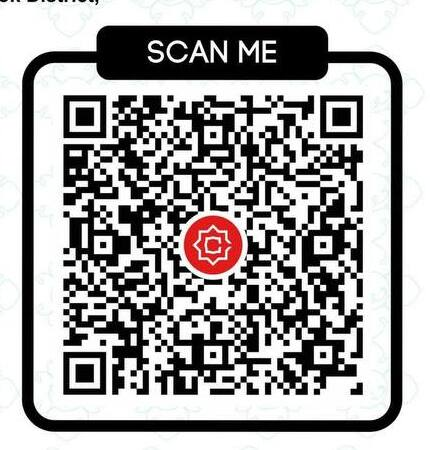
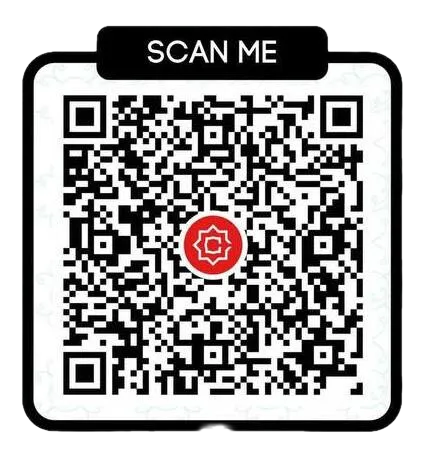
feat: convert images to WebP and add ResponsiveImage component
- Convert KHQR donation QR (178K PNG → 32K WebP, 82% smaller)
- Convert team group photo to WebP (267K JPEG → 139K WebP)
- Add CamEd logo WebP variant
- Add ResponsiveImage component (<picture> with WebP source + fallback)
- Update Team.jsx and DonatePage.jsx to use ResponsiveImage with WebP
- Remove original JPEG/JPG files replaced by WebP
- Add CLAUDE.md improvements: fix base path, add missing scripts, coding conventions, CI/CD docs

diff --git a/src/components/DonationHonorRoll.jsx b/src/components/DonationHonorRoll.jsx
@@ -1,4 +1,4 @@
-import { Banknote, Trophy, Users } from 'lucide-react'
+import { Banknote, Star, Trophy, Users } from 'lucide-react'
 import { buildLeaderboard, formatDonationAmount, formatRelativeTime } from '../lib/donations'
 
 export function DonationSummary({ summary, labels }) {
@@ -41,6 +41,16 @@ export function RecentDonationList({ donations, labels, language, limit = 5 }) {
               </p>
               <p className="font-semibold text-2xl text-orange mt-1 mb-0.5">{formatDonationAmount(donation.amount)}</p>
               <p className="text-xs text-muted mt-0.5">{formatRelativeTime(donation.paidAt, language)}</p>
+              <div className="mt-2 flex flex-wrap items-center gap-2 text-[11px] text-muted">
+                <span className="rounded-full bg-sand px-2.5 py-1">{donation.method}</span>
+                {donation.bank && <span className="rounded-full bg-lime-soft px-2.5 py-1">{donation.bank}</span>}
+                {donation.amount >= 10 && (
+                  <span className="flex items-center gap-1 rounded-full bg-orange/20 px-2.5 py-1 text-orange/80">
+                    <Star size={10} fill="currentColor" className="text-orange/80" />
+                    <span className="uppercase tracking-wide text-[0.6em]">Supporter</span>
+                  </span>
+                )}
+              </div>
             </div>
           </div>
         </div>

diff --git a/src/pages/DonatePage.jsx b/src/pages/DonatePage.jsx
@@ -1,6 +1,7 @@
 import { ArrowLeft, Mail } from 'lucide-react';
 import { useTranslation } from '../hooks/useTranslation';
 import Navbar from '../components/Navbar';
+import ResponsiveImage from '../components/ResponsiveImage';
 
 const telegramIcon = (
   <svg viewBox="0 0 24 24" fill="currentColor" className="w-8 h-8">
@@ -86,9 +87,11 @@ export default function DonatePage() {
             <p className="text-muted text-sm md:text-base leading-relaxed">{d.khqr.description}</p>
           </div>
           <div className="rounded-2xl bg-cream p-4 border border-navy/8">
-            <img
-              src={`${import.meta.env.BASE_URL}img/khqr-donation.png`}
+            <ResponsiveImage
+              webpSrc={`${import.meta.env.BASE_URL}img/khqr-donation.webp`}
+              fallbackSrc={`${import.meta.env.BASE_URL}img/khqr-donation.png`}
               alt={d.khqr.imageAlt}
+              loading="eager"
               className="w-full rounded-xl bg-white"
             />
           </div>

diff --git a/src/components/Team.jsx b/src/components/Team.jsx
@@ -1,5 +1,6 @@
 import { useTranslation } from '../hooks/useTranslation';
 import ScrollReveal from './ScrollReveal';
+import ResponsiveImage from './ResponsiveImage';
 
 export default function Team() {
   const t = useTranslation();
@@ -19,8 +20,9 @@ export default function Team() {
 
         <ScrollReveal>
           <div className="rounded-2xl overflow-hidden shadow-xl shadow-navy/10 border border-navy/6 max-w-3xl mx-auto">
-            <img
-              src={`${import.meta.env.BASE_URL}img/All_group_Members_image.JPEG`}
+            <ResponsiveImage
+              webpSrc={`${import.meta.env.BASE_URL}img/All_group_Members_image.webp`}
+              fallbackSrc={`${import.meta.env.BASE_URL}img/All_group_Members_image.JPEG`}
               alt={tm.photoCaption}
               className="w-full h-auto object-cover"
             />

diff --git a/src/components/ResponsiveImage.jsx b/src/components/ResponsiveImage.jsx
@@ -1,0 +1,31 @@
+import React from 'react';
+
+/**
+ * ResponsiveImage - A component that provides WebP images with PNG/JPG/GIF fallbacks
+ * for maximum browser support and performance.
+ *
+ * This component uses the picture element with source tags for WebP and img for fallback,
+ * ensuring modern browsers get the smaller, faster-loading WebP format while all browsers
+ * maintain full compatibility.
+ */
+export default function ResponsiveImage({
+  webpSrc,
+  fallbackSrc,
+  alt,
+  loading = 'lazy',
+  className = '',
+  ...props
+}) {
+  return (
+    <picture>
+      <source srcSet={webpSrc} type="image/webp" />
+      <img
+        src={fallbackSrc}
+        alt={alt}
+        loading={loading}
+        className={className}
+        {...props}
+      />
+    </picture>
+  );
+}

diff --git a/CLAUDE.md b/CLAUDE.md
@@ -18,7 +18,7 @@ There are no tests or linting configured in this project.
 
 **Stack:** React 19 + Vite 8 + Tailwind CSS v4 (via `@tailwindcss/vite` plugin) + `lucide-react` icons.
 
-**Output:** `npm run build` produces a fully static `/dist` folder deployed to GitHub Pages under the `/scc-charity/` base path (set in `vite.config.js`). All internal asset paths must respect this base — use `import.meta.env.BASE_URL` for dynamic references.
+**Output:** `npm run build` produces a fully static `/dist` folder deployed to GitHub Pages and cPanel. `vite.config.js` sets `base: '/'`. All internal asset paths must use `import.meta.env.BASE_URL` for dynamic references.
 
 ### Environment & Secrets
 
@@ -70,25 +70,42 @@ The `hero` section uses `rotatingPhrases` (an array) instead of a single string 
 | `useTranslation()` | `src/hooks/useTranslation.js` | Returns `content[language]` from context |
 | `useInView(threshold, { once })` | `src/hooks/useInView.js` | `IntersectionObserver` wrapper. `once: true` (default) fires once and disconnects — used by `ScrollReveal`. `once: false` re-fires on every enter/exit — used for repeating animations. |
 | `useCountUp(target, { duration, started })` | `src/hooks/useCountUp.js` | Animates a number from 0 to `target` using ease-out cubic when `started` flips to `true`. Resets to 0 when `started` becomes `false`. |
-| `useDonationHistory()` | `src/hooks/useDonationHistory.js` | Loads historical payment data from `payment-data.txt` and parses it into structured donor records |
-| `useTelegramPoller()` | `src/hooks/useTelegramPoller.js` | Polls Telegram Bot API every 5-10 seconds for new donation notifications in the group chat |
+| `useDonations({ poll })` | `src/hooks/useDonations.js` | Fetches `public/data/donations.json` on mount and polls every `DONATION_POLL_MS` (2 s). Skips fetch when tab is hidden. Returns `{ donations, summary, loading, error, checkedAt, refresh }`. |
 
 ### Donation System
 
-**Real-time Donation Feed:**
-- `DonorsPage.jsx` — dedicated leaderboard page showing all donors
-- `LiveDonationsFeed.jsx` — compact feed component embedded in homepage
-- `DonorCard.jsx` — formal display: "Name Donated $X.XX Y minutes ago"
-- Payment notifications from Telegram group are parsed and displayed
-- Name disambiguation: if names match, suffix with last 3 digits of bank account (e.g., "LENG Lyheang (*267)")
+**Architecture:**
+- `src/lib/donations.js` — all data utilities: `normalizeDonationPayload`, `buildLeaderboard`, `formatDonationAmount`, `formatRelativeTime`, `donationFingerprint`, `fetchDonationPayload`
+- `src/data/donations.generated.json` — baked-in snapshot imported at build time (seed data so page has content without a network request)
+- `public/data/donations.json` — polled at runtime; updated by CI/sync scripts
+- `public/data/donations-state.json` — last-known Telegram offset used by sync scripts
 
-**Payment Parsing:**
-- ABA PayWay notifications parsed from Telegram messages
-- Regex extracts: `NAME (*XXX)`, `$AMOUNT`, `Trx.ID`, time
-- Historical data stored in `payment-data.txt` (load on page load)
-- New donations detected via Telegram group message polling
+**Components:**
+- `LiveDonations.jsx` — homepage section; uses `useDonations()` and renders `DonationSummary` + `RecentDonationList` + `LeaderboardList`
+- `DonationHonorRoll.jsx` — exports three sub-components: `DonationSummary` (stats grid), `RecentDonationList` (chronological feed), `LeaderboardList` (ranked by total)
+- `DonorsPage.jsx` — dedicated leaderboard page (`#donors`) using the same components
+
+**Name disambiguation:** if two donations share the same `donorName`, the display name appends `*accountSuffix` (e.g., `LENG Lyheang *267`). Logic lives in `applyDisplayNames()` inside `src/lib/donations.js`.
+
+**Donation npm scripts:**
+```bash
+npm run donations:build        # Rebuild src/data/donations.generated.json from public/data/donations.json
+npm run donations:sync         # Pull new messages from Telegram Bot API → update public/data/donations.json
+npm run donations:watch        # Same as sync but keeps running (polling)
+npm run donations:api          # Write dist/api/donations.php using TG_API_BOT (runs in CI for cPanel)
+npm run donations:webhook      # Register Telegram webhook pointing to https://scc-charity.com/api/donations.php
+npm run donations:import-live  # Import live cPanel JSON back into the repo (used by CI sync workflow)
+npm run telegram:login         # Interactive Telegram user-session login (MTProto via gramjs)
+npm run telegram:sync          # Sync via user session instead of bot API
+```
+
+`prebuild` runs `donations:build` automatically before every `npm run build`.
+
+**Live donation fallback:** the browser first tries `api/donations.php` (present on cPanel deploys); if that endpoint is unavailable it falls back to `public/data/donations.json`.
 
 ### Components
+
+**`ResponsiveImage`** — renders a `<picture>` with a WebP `<source>` and a PNG/JPEG `<img>` fallback. Always use this for photos in `public/img/` when a `.webp` version exists alongside the original.
 
 **`ScrollReveal`** — wraps any content in a `useInView`-triggered fade-up animation (one-time, `once: true`).
 
@@ -145,11 +162,30 @@ These are brand-identity strings that don't need translation. Do not move them t
 
 ### Static assets
 
-Logos live in **`public/logos/`**: `scc.svg` (color), `scc-white.svg` (white), `scc-black.svg` (black), `CamEd_Logo.png`. Reference them via `${import.meta.env.BASE_URL}logos/filename`. Never import from `src/` for `<img>` src — always use `public/`.
+Logos live in **`public/logos/`**: `scc.svg` (color), `scc-white.svg` (white), `scc-black.svg` (black), `CamEd_Logo.png` / `CamEd_Logo.webp`. Reference them via `${import.meta.env.BASE_URL}logos/filename`. Never import from `src/` for `<img>` src — always use `public/`.
 
-`public/img/` contains group/event photos (`All_group_Members_image.JPEG`, `event-poster.jpg`). `event-poster.jpg` is referenced in `EventDetails.jsx` as a fallback but the primary poster display is now a styled text card driven by `t.event.poster` keys in `content.js`.
+`public/img/` contains group/event photos. Each image has both an original (`.JPEG`/`.jpg`/`.png`) and a `.webp` version — always serve `.webp` via `ResponsiveImage` with the original as fallback. `event-poster.jpg` is referenced in `EventDetails.jsx` as a fallback but the primary poster display is a styled text card driven by `t.event.poster` keys in `content.js`.
 
 The favicon and OG image in `index.html` point to `scc.svg`.
+
+### Coding conventions
+
+- ES modules throughout; component files use PascalCase (`Hero.jsx`), hooks use camelCase with `use` prefix (`useInView.js`)
+- 2-space indentation, single quotes, no semicolons unless required
+- Conventional Commit prefixes for commits: `fix:`, `feat:`, `docs:`, `chore:`
+- PRs for visual changes should include screenshots; content-only PRs should confirm both `en` and `km` were updated
+
+### CI/CD deployment
+
+Two parallel deploy workflows trigger on every push to `main`:
+- **GitHub Pages** (`deploy.yml`) — runs `npm run build`, uploads `dist/` via `actions/deploy-pages`
+- **cPanel** (`deploy-cpanel.yml`) — builds, runs `donations:api` (writes `dist/api/donations.php`), FTPs `dist/` to `scc-charity.com`, then calls `donations:webhook` to register the Telegram webhook
+
+Required GitHub Secrets for cPanel deploy: `TG_API_BOT`, `TG_WEBHOOK_SECRET` (optional — derived from token if absent), `FTP_SERVER`, `FTP_USERNAME`, `FTP_PASSWORD`.
+
+Two background sync workflows keep donation data fresh:
+- `sync-live-donations.yml` — imports live cPanel JSON back into the repo every 5 minutes so GitHub Pages stays current
+- `sync-telegram-user-donations.yml` — reads the PayWay payment group via MTProto every 5 minutes; requires `TG_API_ID`, `TG_API_HASH`, `TG_USER_SESSION` secrets
 
 ### Design system
 
